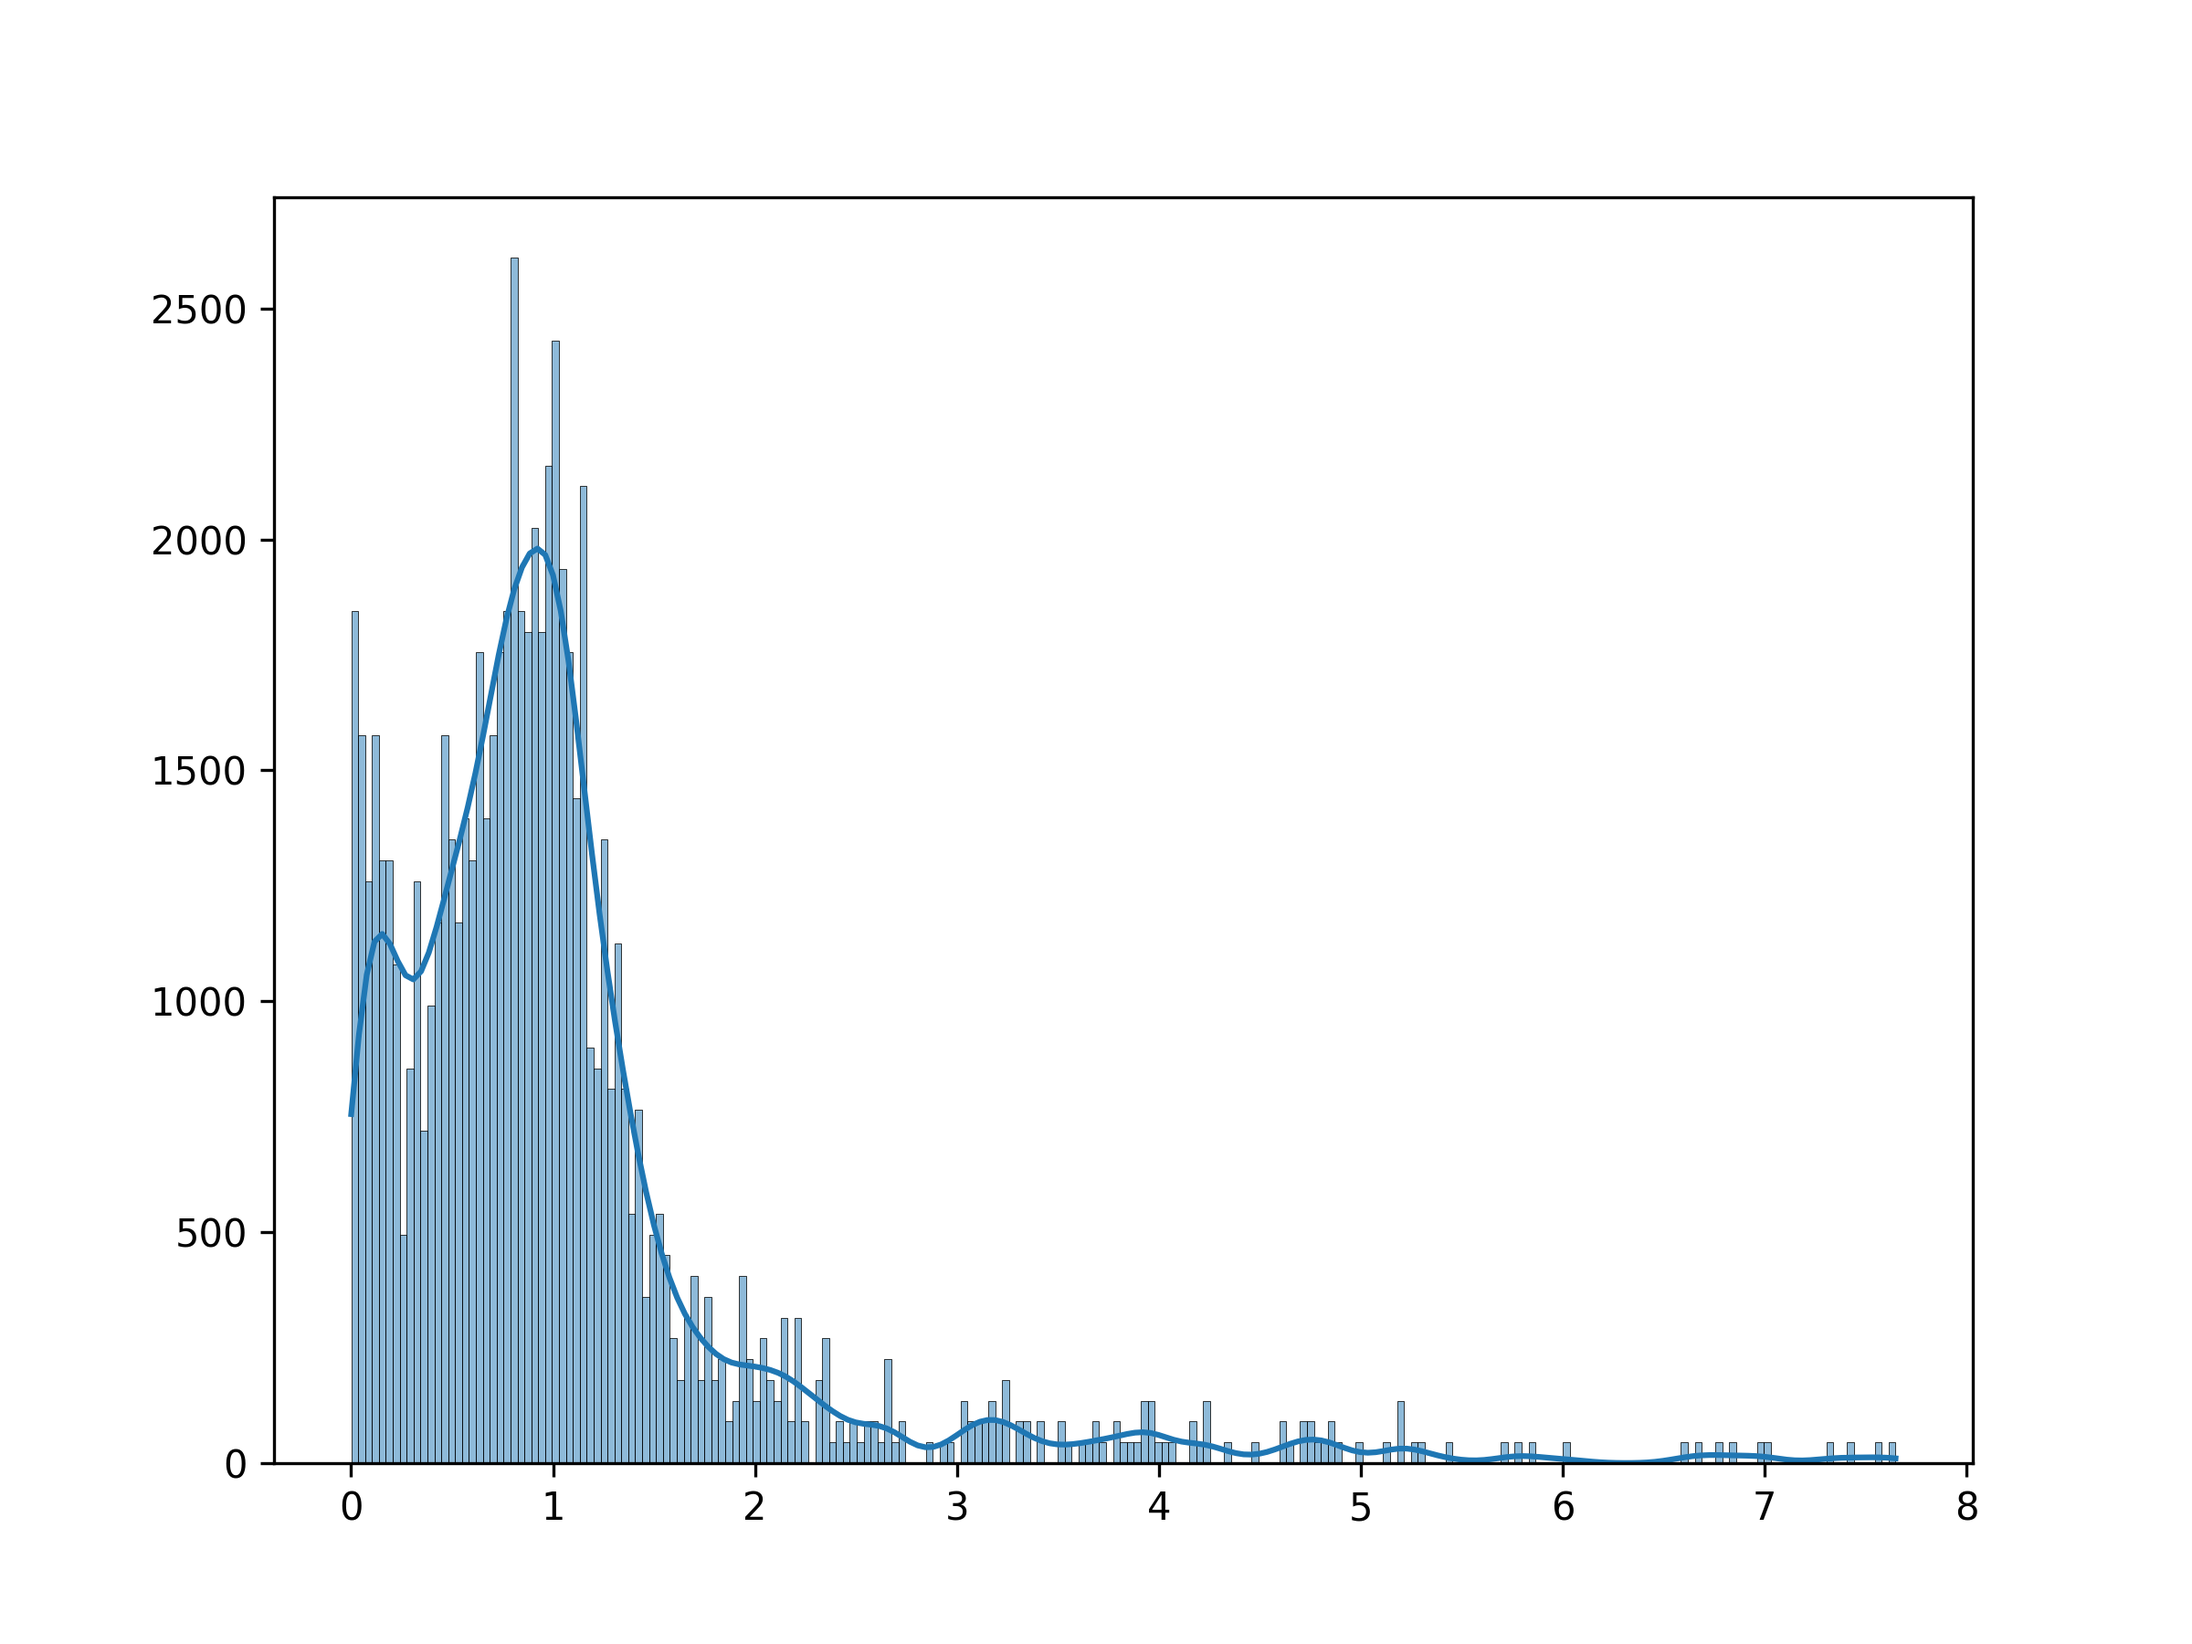
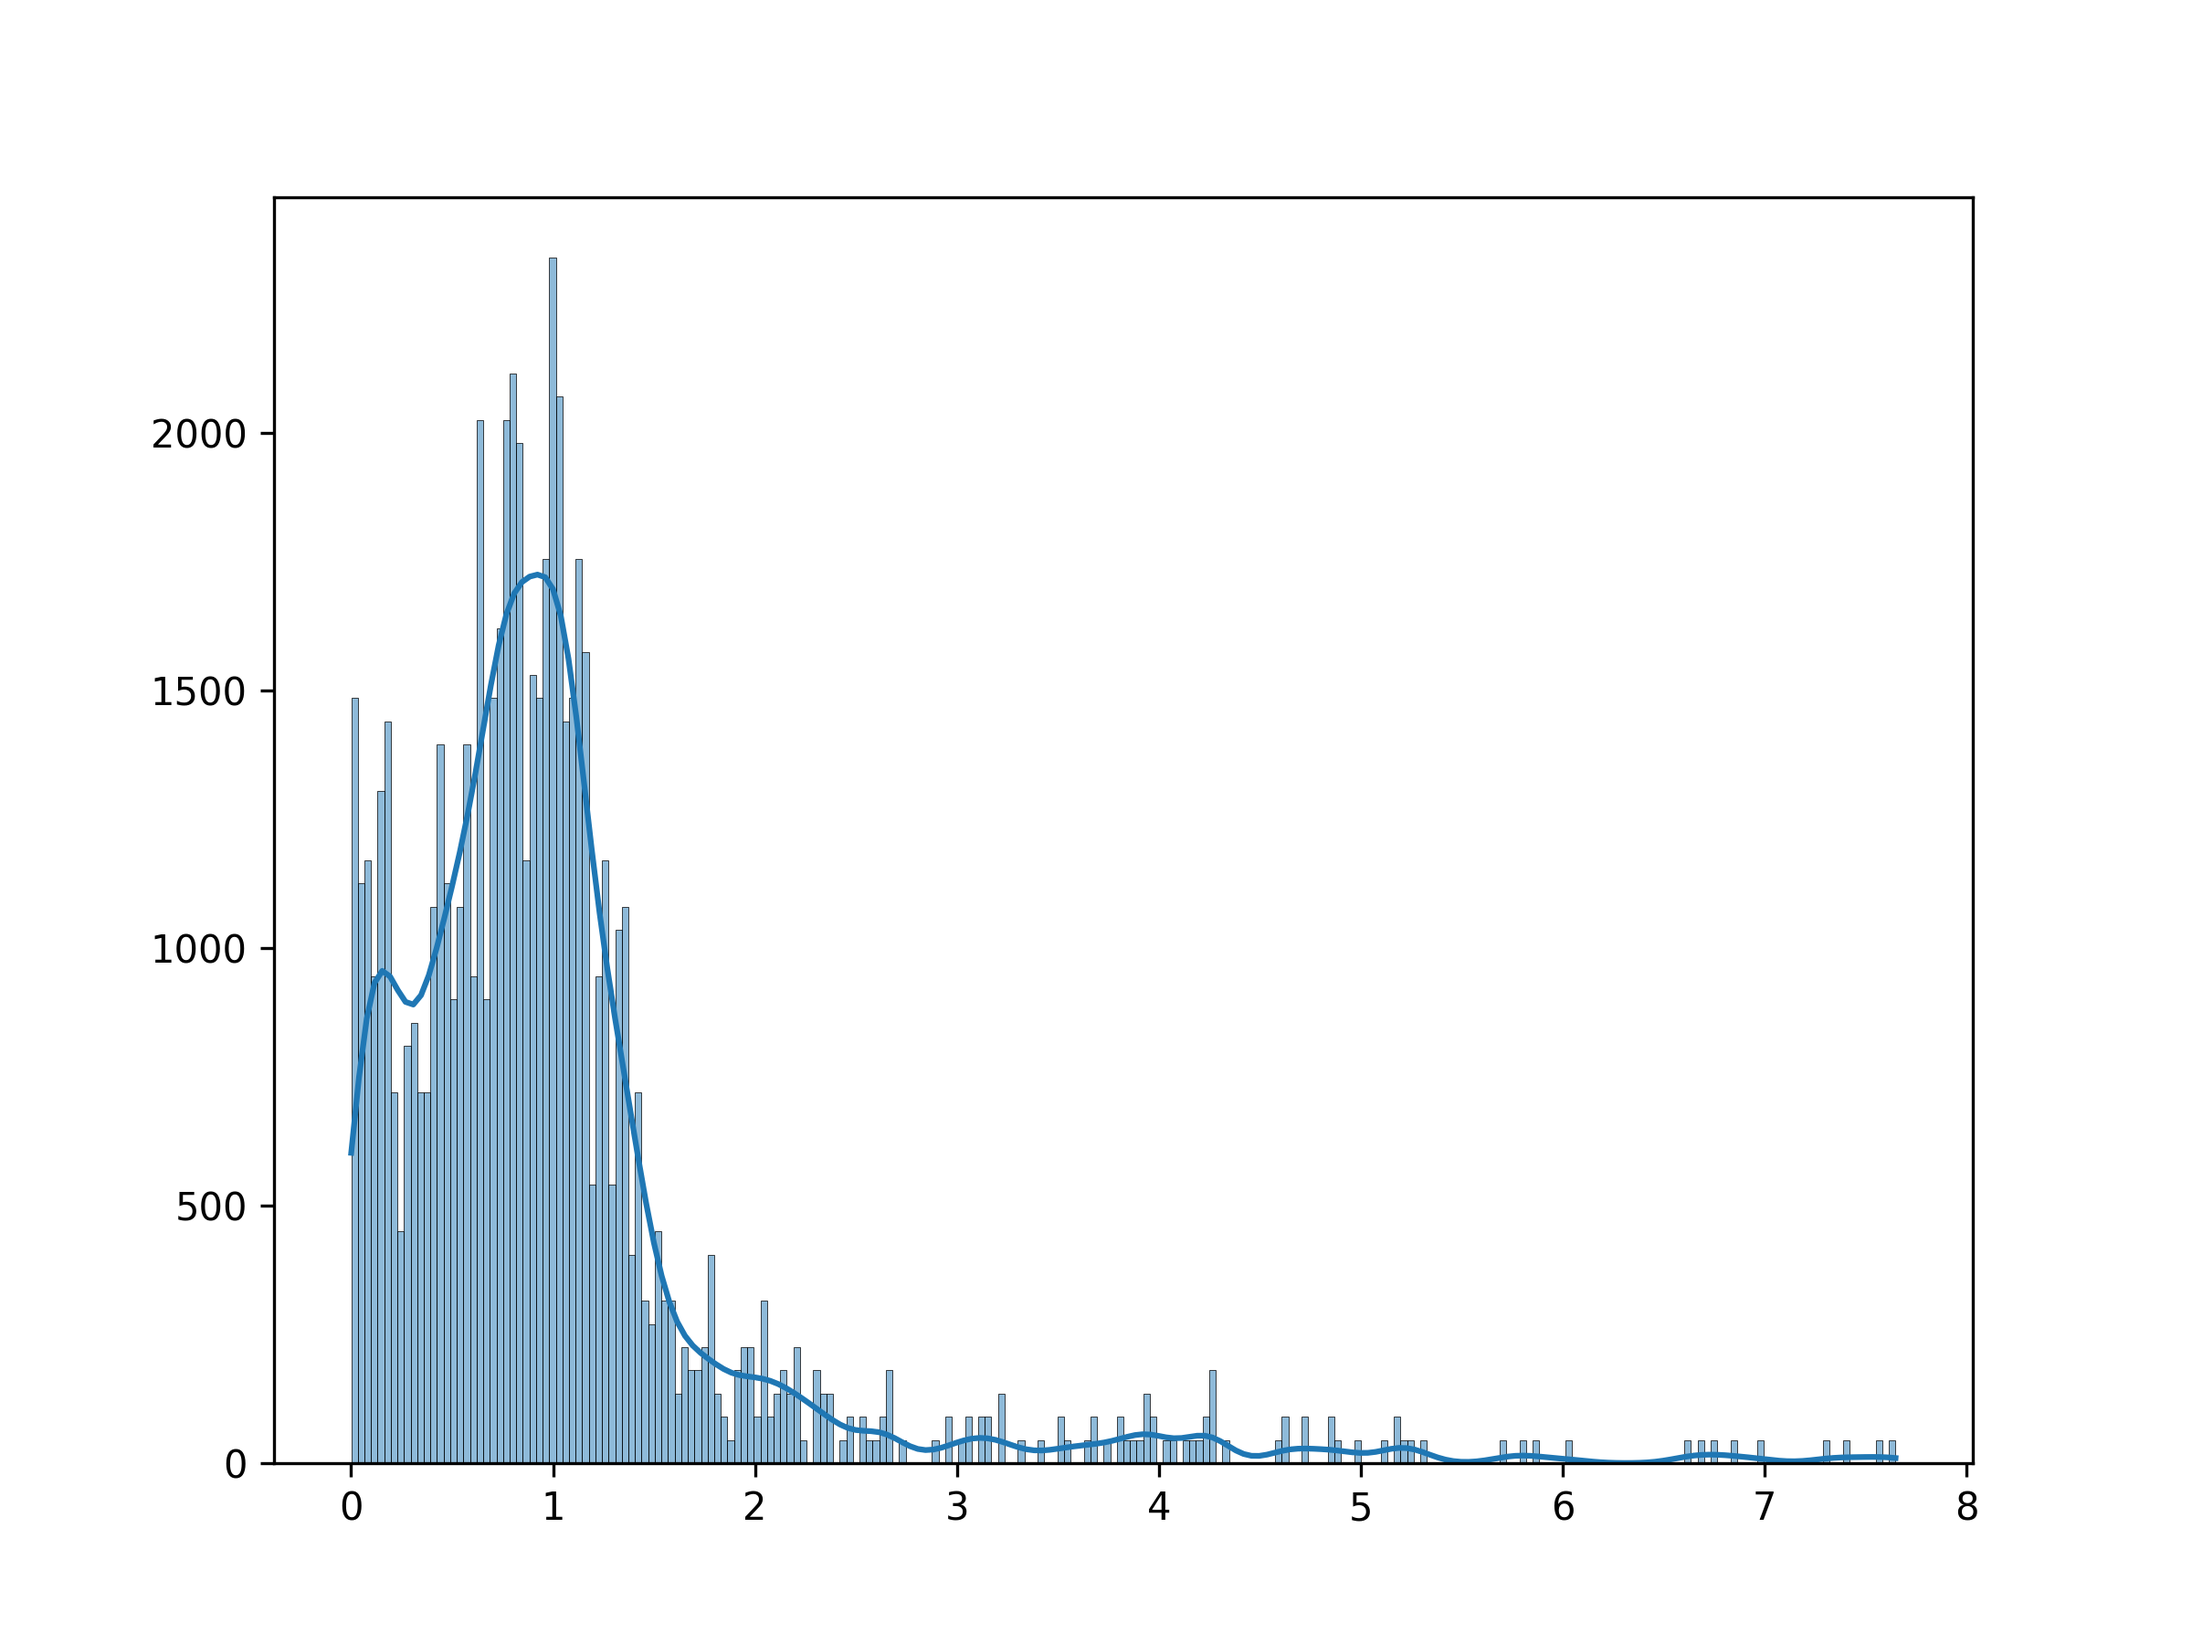
New figures

diff --git a/results/description_table.tex b/results/description_table.tex
@@ -1,0 +1,14 @@
+\begin{tabular}{lrr}
+\toprule
+ & coef & temperature_change \\
+\midrule
+count & 21945.000000 & 21945.000000 \\
+mean & 1.143808 & 1.508060 \\
+std & 1.006845 & 0.431728 \\
+min & 0.125208 & 0.845000 \\
+25% & 0.612908 & 1.121775 \\
+50% & 0.922452 & 1.496297 \\
+75% & 1.255974 & 1.886759 \\
+max & 7.648067 & 2.301589 \\
+\bottomrule
+\end{tabular}
